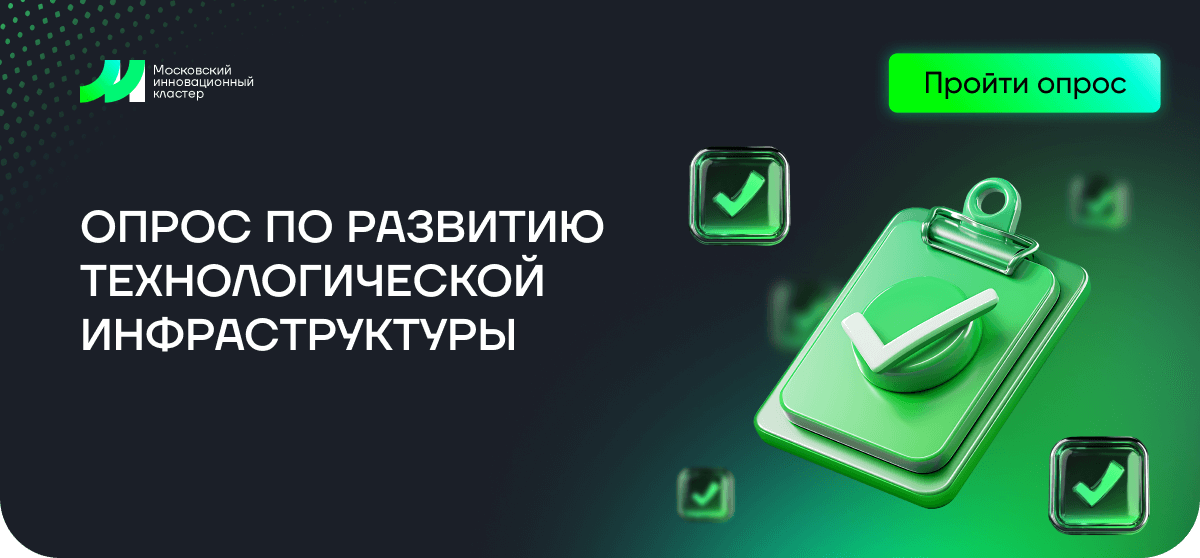
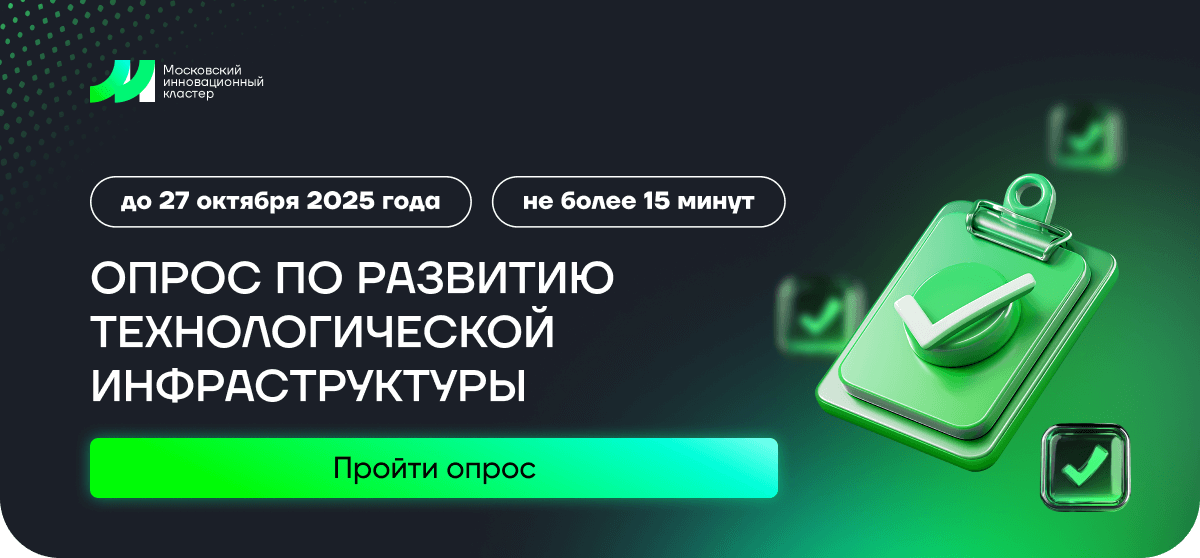
change mik-275

Changed region(s): [[0.0617, 0.0609, 0.9867, 0.9749], [0.0617, 0.2437, 0.6783, 0.7312], [0.0617, 0.0914, 0.2158, 0.1828]]

diff --git a/mik-275/Опрос по развитию технологической инфраструктуры.html b/mik-275/Опрос по развитию технологической инфраструктуры.html
@@ -103,7 +103,7 @@
                                         <tr>
                                             <td style="width:600px;">]
                                                 <a href="https://anketolog.ru/infrastructure_technology" target="_blank">
-                                                <img alt="Опрос по развитию технологической инфраструктуры. Нажмите здесь, чтобы пройти опрос." height="auto" src="https://cp.unisender.com/ru/user_file?resource=images&user_id=5608985&name=mik-275-hero.png" style="border:0;display:block;outline:none;text-decoration:none;height:auto;width:100%;font-size:13px;" width="600" />
+                                                <img alt="Опрос по развитию технологической инфраструктуры. До 27 октября 2025 года. Не более 15 минут. Нажмите здесь, чтоюы пройти опрос" height="auto" src="https://cp.unisender.com/ru/user_file?resource=images&user_id=5608985&name=mik-275-hero.png" style="border:0;display:block;outline:none;text-decoration:none;height:auto;width:100%;font-size:13px;" width="600" />
                                                 </a>
                                             </td>
                                         </tr>
